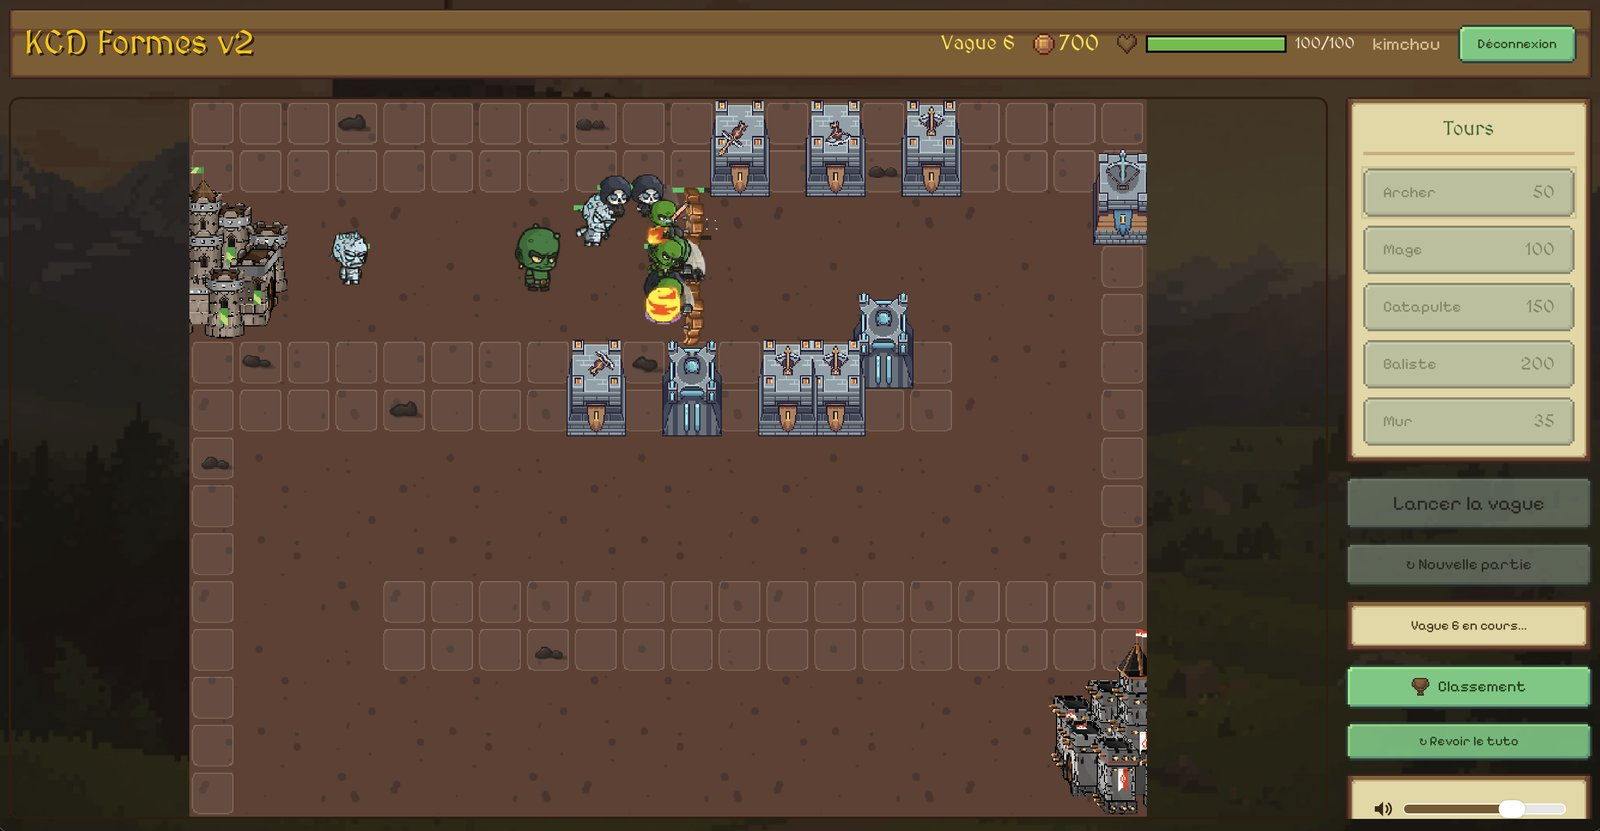
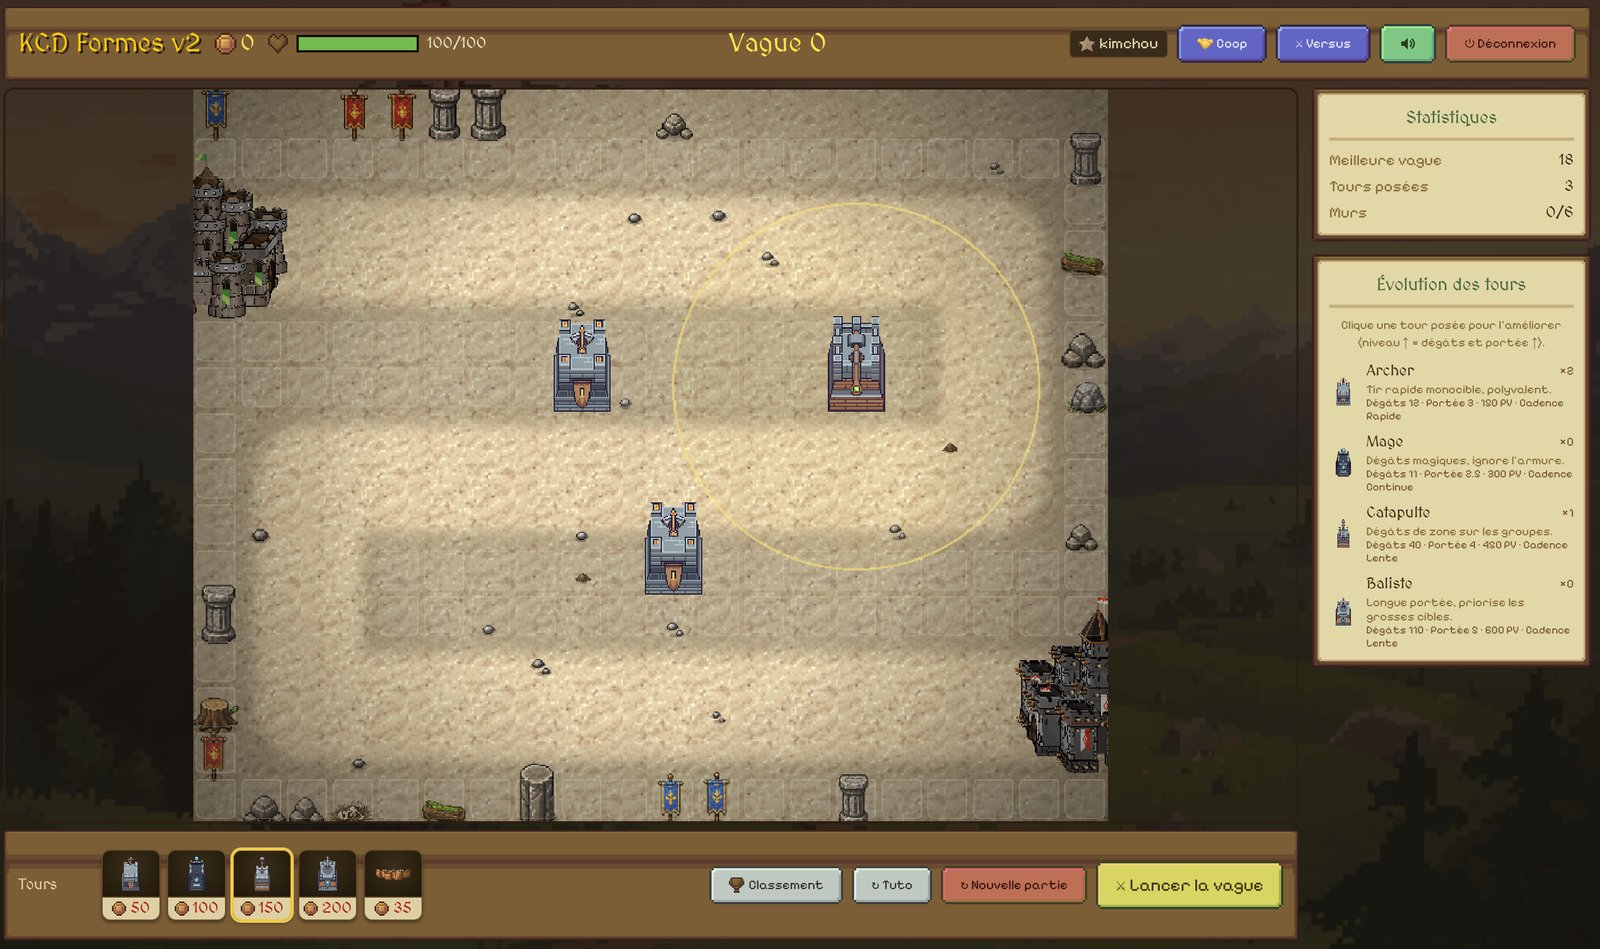
feat(projects): KCD Formes v2 — multijoueur livré (Versus/Coop, WebSocket, chat, tuto) + évolution des tours ; nouvelles captures (combat solo désert, lobby, duel, aperçu adverse+chat)

diff --git a/components/Projects.tsx b/components/Projects.tsx
@@ -78,21 +78,23 @@ const projects: Project[] = [
             '- **Architecture hexagonale** (ports & adapters) : le domaine métier (formes, ennemis, vagues, économie) est isolé des détails techniques (JPA/PostgreSQL, contrôleurs REST).\n' +
             '- **Backend Java 21 / Spring Boot** : PostgreSQL + migrations Flyway, authentification JWT, verrou optimiste sur les parties.\n' +
             '- **Simulation côté serveur** : les vagues sont résolues sur le serveur puis rejouées à l\'écran : **100+ tests** unitaires et un **harnais d\'équilibrage multi-graines** qui vérifie que le jeu reste jouable.\n' +
-            '- **Frontend Next.js / TypeScript + Phaser** : tower-defense solo (chemin serpentin, 5 tours, modes de ciblage, boss à capacités, paliers de bonus, classement).\n' +
-            '- **Habillage pixel-art** : HUD médiéval, tutoriel contextuel, sons (bruitages + musique), animations d\'impact et de destruction.\n' +
+            '- **Multijoueur temps réel (WebSocket/STOMP)** : mode **Versus 1v1** (chacun défend son château et envoie des vagues à l\'adversaire, avec **aperçu live de sa grille** et revenu passif) et mode **Coop** ; **chat de match** et **tutoriel guidé** intégrés.\n' +
+            '- **Frontend Next.js / TypeScript + Phaser** : tower-defense solo (chemin serpentin, 5 tours, modes de ciblage, boss à capacités, paliers de bonus, classement) + **évolution des tours** (amélioration plafonnée, coûteuse mais décisive : dégâts, portée, solidité anti-siège).\n' +
+            '- **Habillage pixel-art** : map « terres désolées » au chemin naturel, décor de ruines, HUD médiéval optimisé, tutoriel contextuel, sons (bruitages + musique réglables séparément), animations d\'impact et de destruction.\n' +
             '- **DevOps** : Docker multi-stage, reverse-proxy Caddy, HTTPS Let\'s Encrypt auto-renouvelé, **CI/CD GitHub Actions** (déploiement auto sur mon VPS OVH à chaque push).\n\n' +
             'En ligne sur **kcd-formes.fr**.\n\n' +
-            '**En cours de conception** : un mode **multijoueur** et une **version mobile**.',
+            '**En cours** : une **version mobile**.',
         descriptionEn: 'A full re-architecture of my **2nd-year capstone game**, rebuilt with the skills I\'ve gained since. The goal: a real **end-to-end** rebuild, from domain code to production.\n\n' +
             '- **Hexagonal architecture** (ports & adapters): the business domain (shapes, enemies, waves, economy) is isolated from technical details (JPA/PostgreSQL, REST controllers).\n' +
             '- **Java 21 / Spring Boot backend**: PostgreSQL + Flyway migrations, JWT authentication, optimistic locking on games.\n' +
             '- **Server-side simulation**: waves are resolved on the server then replayed on screen — **100+ unit tests** and a **multi-seed balancing harness** that checks the game stays playable.\n' +
-            '- **Next.js / TypeScript + Phaser frontend**: solo tower-defense (serpentine path, 5 towers, targeting modes, boss abilities, bonus milestones, leaderboard).\n' +
-            '- **Pixel-art layer**: medieval HUD, contextual tutorial, sound (SFX + music), impact and destruction animations.\n' +
+            '- **Real-time multiplayer (WebSocket/STOMP)**: **Versus 1v1** mode (each defends their castle and sends waves to the opponent, with a **live opponent mini-map** and passive income) and **Coop** mode; built-in **in-match chat** and **guided tutorial**.\n' +
+            '- **Next.js / TypeScript + Phaser frontend**: solo tower-defense (serpentine path, 5 towers, targeting modes, boss abilities, bonus milestones, leaderboard) + **tower evolution** (capped upgrades, costly but decisive: damage, range, siege-resistant HP).\n' +
+            '- **Pixel-art layer**: "wasteland" map with a natural path, ruin décor, optimized medieval HUD, contextual tutorial, sound (separately adjustable SFX + music), impact and destruction animations.\n' +
             '- **DevOps**: multi-stage Docker, Caddy reverse-proxy, auto-renewed Let\'s Encrypt HTTPS, **GitHub Actions CI/CD** (auto-deploy to my OVH VPS on every push).\n\n' +
             'Live at **kcd-formes.fr**.\n\n' +
-            '**In progress**: a **multiplayer** mode and a **mobile version**.',
-        tech: ['Next.js', 'TypeScript', 'Phaser', 'Spring Boot', 'Java', 'PostgreSQL', 'Docker', 'CI/CD', 'Architecture hexagonale'],
+            '**In progress**: a **mobile version**.',
+        tech: ['Next.js', 'TypeScript', 'Phaser', 'Spring Boot', 'Java', 'WebSocket', 'PostgreSQL', 'Docker', 'CI/CD', 'Architecture hexagonale'],
         image: '/images/kcd-v2-home.jpg',
         links: {
             demo: 'https://kcd-formes.fr',
@@ -100,7 +102,10 @@ const projects: Project[] = [
         },
         screenshots: [
             { url: '/images/kcd-v2-home.jpg', title: 'Page d\'accueil', description: 'Accueil animé (fond héros, braises, titre pixel médiéval) et connexion/inscription. Sous-titre « Combien de vagues tiendras-tu ? ».', titleEn: 'Homepage', descriptionEn: 'Animated home (hero background, embers, medieval pixel title) with login/registration.' },
-            { url: '/images/kcd-v2-combat.jpg', title: 'Phase de combat', description: 'Grille « champ de bataille » avec chemin serpentin, tours (Archer, Mage, Catapulte, Baliste, Mur), ennemis animés, effets et sons synchronisés. Vagues résolues côté serveur puis rejouées.', titleEn: 'Combat phase', descriptionEn: 'Battlefield grid with serpentine path, towers, animated enemies, synced effects and sounds. Waves resolved server-side then replayed.' },
+            { url: '/images/kcd-v2-combat.jpg', title: 'Combat solo', description: 'Map « terres désolées » au chemin naturel, tours (Archer, Mage, Catapulte, Baliste, Mur), ennemis animés. Panneau latéral : statistiques + évolution des tours (dégâts, portée, PV, cadence). Vagues résolues côté serveur puis rejouées.', titleEn: 'Solo combat', descriptionEn: 'Wasteland map with a natural path, towers, animated enemies. Side panel: run stats + tower evolution (damage, range, HP, fire rate). Waves resolved server-side then replayed.' },
+            { url: '/images/kcd-v2-lobby.jpg', title: 'Lobby multijoueur', description: 'Duel 1 contre 1 : on crée un salon (code partageable) ou on rejoint par code. Statut « Prêt » de chaque joueur synchronisé en temps réel via WebSocket/STOMP.', titleEn: 'Multiplayer lobby', descriptionEn: '1v1 duel: create a room (shareable code) or join by code. Each player\'s "Ready" status synced in real time over WebSocket/STOMP.' },
+            { url: '/images/kcd-v2-duel.jpg', title: 'Duel en temps réel', description: 'Mode Versus : chacun défend son château et dépense son or pour envoyer des vagues d\'ennemis chez l\'adversaire (ce qui augmente son revenu passif). Barre de vie de l\'adversaire suivie en direct. Dernier château debout gagne.', titleEn: 'Real-time duel', descriptionEn: 'Versus mode: each defends their castle and spends gold to send enemy waves to the opponent (which boosts passive income). Opponent\'s HP tracked live. Last castle standing wins.' },
+            { url: '/images/kcd-v2-versus.jpg', title: 'Aperçu adverse + chat', description: 'Aperçu live de la grille adverse (mini-map : château, tours et ennemis en temps réel), chat de match et tutoriel guidé « Le Héraut ». Le tout via WebSocket/STOMP.', titleEn: 'Opponent preview + chat', descriptionEn: 'Live opponent mini-map (castle, towers and enemies in real time), in-match chat and guided "Herald" tutorial. All over WebSocket/STOMP.' },
         ],
     },
     {
